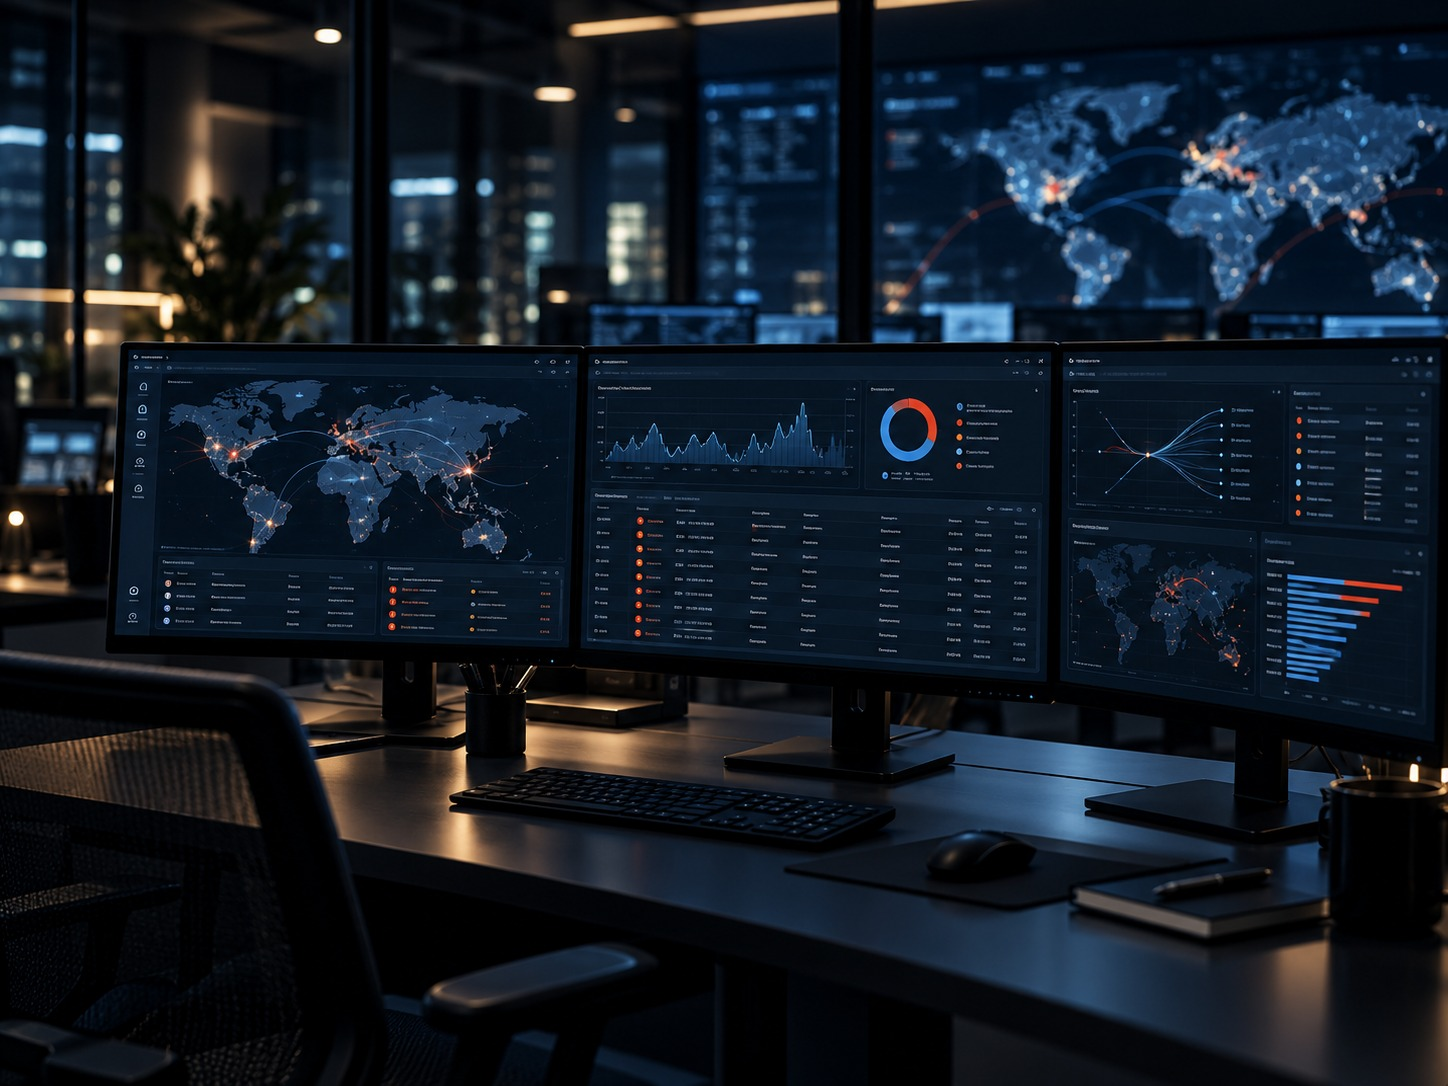
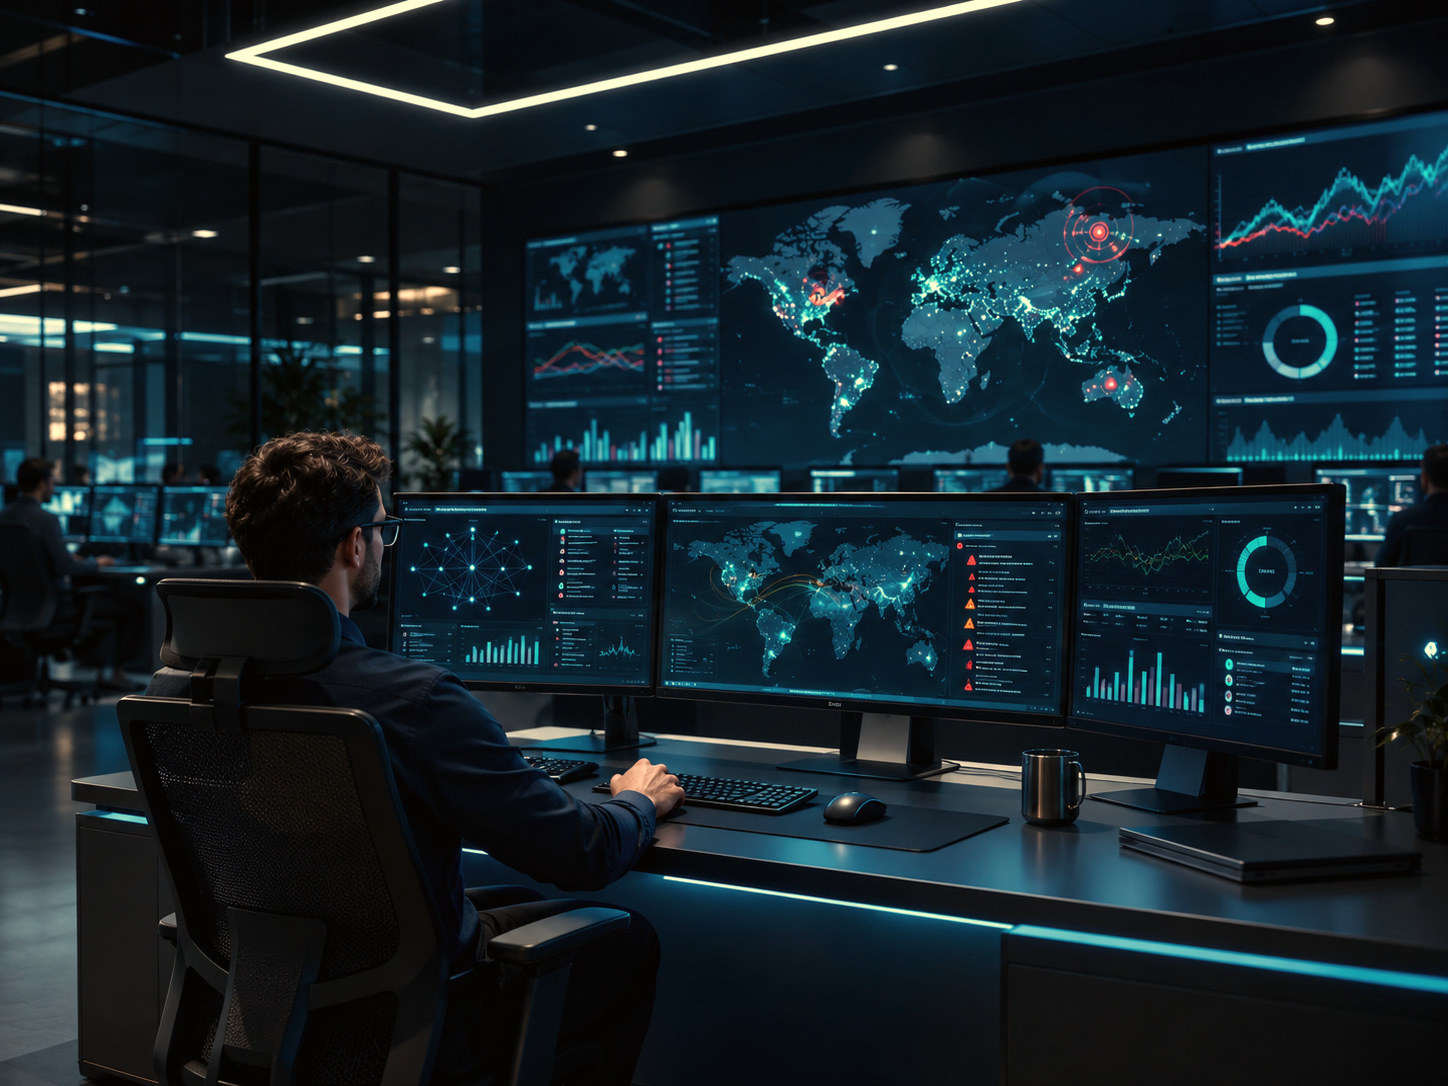
Update Sentry and Compliance visuals; reorder solution sections

diff --git a/site/index.html b/site/index.html
@@ -4,7 +4,7 @@
   <meta charset="UTF-8" />
   <meta name="viewport" content="width=device-width, initial-scale=1" />
   <meta name="theme-color" content="#060d17" />
-  <meta name="description" content="G&R Group entwickelt intelligente Softwarelösungen für Netzwerksicherheit, regulatorische Compliance, KI-Arbeitsplätze und Smart Farming." />
+  <meta name="description" content="G&R Group entwickelt intelligente Softwarelösungen für Netzwerksicherheit, regulatorische Compliance, Smart Farming und KI-Arbeitsplätze." />
   <title>G&R Group | Technologie entwickeln. Zukunft gestalten.</title>
   <link rel="icon" type="image/x-icon" href="https://gr-sec.com/favicon.ico" />
   <link rel="alternate icon" href="favicon.svg" type="image/svg+xml" />
@@ -46,13 +46,13 @@
         <div class="hero-copy">
           <p class="eyebrow"><span class="eyebrow-rule"></span><span data-i18n="heroEyebrow">MADE IN GERMANY</span></p>
           <h1 id="heroTitle" data-i18n="heroTitle">Technologie entwickeln.<br /><span class="title-accent">Zukunft gestalten.</span></h1>
-          <p class="hero-lead" data-i18n="heroLead">Wir entwickeln intelligente Softwarelösungen für sichere Netzwerke, regulatorische Transparenz, produktivere Arbeitsprozesse und datenbasierte Landwirtschaft.</p>
+          <p class="hero-lead" data-i18n="heroLead">Wir entwickeln intelligente Softwarelösungen für sichere Netzwerke, regulatorische Transparenz, datenbasierte Landwirtschaft und produktivere Arbeitsprozesse.</p>
           <div class="hero-actions">
             <a class="button button-primary" href="#products"><span data-i18n="productsCTA">Lösungen entdecken</span><span aria-hidden="true">↗</span></a>
             <a class="button button-ghost" href="#contact"><span data-i18n="contactCTA">Gespräch anfragen</span><span aria-hidden="true">→</span></a>
           </div>
           <div class="hero-meta" aria-label="Lösungsbereiche">
-            <span>G&R SENTRY</span><i></i><span>LEGAL TECH</span><i></i><span>AI WORKSPACE</span><i></i><span>SMART FARMING</span>
+            <span>G&R SENTRY</span><i></i><span>LEGAL TECH</span><i></i><span>SMART FARMING</span><i></i><span>AI WORKSPACE</span>
           </div>
         </div>
       </div>
@@ -66,24 +66,24 @@
             <p class="eyebrow" data-i18n="fieldsKicker">UNSERE LÖSUNGEN</p>
             <h2 id="productsHeading" data-i18n="fieldsTitle">Vier Lösungen.<br /><span class="text-muted">Eine gemeinsame Vision.</span></h2>
           </div>
-          <p class="section-intro" data-i18n="fieldsLead">Vier eigene Softwarelösungen für Netzwerksicherheit, regulatorische Compliance, produktive Arbeitsprozesse und datenbasierte Landwirtschaft.</p>
+          <p class="section-intro" data-i18n="fieldsLead">Vier eigene Softwarelösungen für Netzwerksicherheit, regulatorische Compliance, datenbasierte Landwirtschaft und produktive Arbeitsprozesse.</p>
         </div>
         <div class="product-grid">
           <a href="#cyber" class="product-card">
-            <div class="product-image"><img src="images/cyber.jpg" alt="Sentry Cybersecurity-Motiv" loading="lazy" decoding="async" /></div>
+            <div class="product-image"><img src="images/cyber.jpg" alt="Cybersecurity-Analyst überwacht Netzwerkereignisse im Security Operations Center" loading="lazy" decoding="async" /></div>
             <div class="product-card-body"><span class="product-category">CYBERSECURITY</span><h3>G&R Sentry</h3><p data-i18n="cardCyber">Cyberangriffe erkennen, bevor sie zum Problem werden.</p><span class="product-card-link"><span data-i18n="exploreProduct">Produkt ansehen</span><span aria-hidden="true">↗</span></span></div>
           </a>
           <a href="#compliance" class="product-card">
-            <div class="product-image"><img src="images/compliance.jpg" alt="Drei EU-Flaggen vor moderner Glasarchitektur im Abendlicht" loading="lazy" decoding="async" /></div>
+            <div class="product-image"><img src="images/compliance.jpg" alt="Drei EU-Flaggen vor modernen europäischen Glasgebäuden im Abendlicht" loading="lazy" decoding="async" /></div>
             <div class="product-card-body"><span class="product-category">COMPLIANCE · LEGAL TECH</span><h3>Compliance Tracker</h3><p data-i18n="cardComp">Regulatorische Veränderungen erkennen. Sicherer entscheiden.</p><span class="product-card-link"><span data-i18n="exploreProduct">Produkt ansehen</span><span aria-hidden="true">↗</span></span></div>
-          </a>
-          <a href="#ai" class="product-card">
-            <div class="product-image"><img src="images/ai.jpg" alt="Helios KI-Arbeitsplatz auf einem Laptop vor der Münchner Frauenkirche" loading="lazy" decoding="async" /></div>
-            <div class="product-card-body"><span class="product-category">ARTIFICIAL INTELLIGENCE</span><h3>Helios</h3><p data-i18n="cardAi">Weniger Verwaltung. Mehr Zeit für Ihre Kunden.</p><span class="product-card-link"><span data-i18n="exploreProduct">Produkt ansehen</span><span aria-hidden="true">↗</span></span></div>
           </a>
           <a href="#farming" class="product-card product-card-farming">
             <div class="product-image"><img src="images/vairrigation.jpg" alt="Bewässertes Feld mit Vairrigation-Dashboard auf einem Tablet – illustrative Produktvisualisierung" loading="lazy" decoding="async" width="922" height="770" /></div>
             <div class="product-card-body"><span class="product-category">SMART FARMING</span><h3>Vairrigation</h3><p data-i18n="cardFarm">More crop per drop. Bewässerung datenbasiert planen.</p><span class="product-card-link"><span data-i18n="exploreProduct">Produkt ansehen</span><span aria-hidden="true">↗</span></span></div>
+          </a>
+          <a href="#ai" class="product-card">
+            <div class="product-image"><img src="images/ai.jpg" alt="Helios KI-Arbeitsplatz auf einem Laptop vor der Münchner Frauenkirche" loading="lazy" decoding="async" /></div>
+            <div class="product-card-body"><span class="product-category">ARTIFICIAL INTELLIGENCE</span><h3>Helios</h3><p data-i18n="cardAi">Weniger Verwaltung. Mehr Zeit für Ihre Kunden.</p><span class="product-card-link"><span data-i18n="exploreProduct">Produkt ansehen</span><span aria-hidden="true">↗</span></span></div>
           </a>
         </div>
       </div>
@@ -91,7 +91,7 @@
 
     <div class="product-details">
       <section class="wrap detail-row" id="cyber" aria-labelledby="cyberHeading">
-        <div class="detail-media"><img src="images/cyber.jpg" alt="G&R Sentry – bestehendes Cybersecurity-Bild" loading="lazy" decoding="async" /></div>
+        <div class="detail-media"><img src="images/cyber.jpg" alt="G&R Sentry – Cybersecurity-Analyst an Netzwerkmonitoren" loading="lazy" decoding="async" /></div>
         <div class="detail-content">
           <p class="eyebrow">CYBERSECURITY</p>
           <h2 id="cyberHeading">G&R Sentry</h2>
@@ -120,22 +120,7 @@
           <a href="#contact" class="text-link detail-cta" data-contact-topic="Compliance Tracker"><span data-i18n="compDetailCTA">Compliance Tracker kennenlernen</span><span aria-hidden="true">↗</span></a>
         </div>
       </section>
-      <section class="wrap detail-row" id="ai" aria-labelledby="aiHeading">
-        <div class="detail-media"><img src="images/ai.jpg" alt="Helios – KI-Arbeitsplatz auf einem Laptop mit Blick auf die Münchner Frauenkirche" loading="lazy" decoding="async" /></div>
-        <div class="detail-content">
-          <p class="eyebrow">ARTIFICIAL INTELLIGENCE · WORKSPACE</p>
-          <h2 id="aiHeading">Helios</h2>
-          <h3 class="detail-tagline" data-i18n="aiTagline">Weniger Verwaltung. Mehr Zeit für Ihre Kunden.</h3>
-          <p class="detail-lead" data-i18n="aiLead">Helios verbindet Posteingang, Kalender und Arbeitsvorgänge in einem intelligenten KI-Arbeitsplatz. Die Software erkennt wichtige Informationen, priorisiert Aufgaben und unterstützt Makler dabei, ihren Arbeitsalltag effizienter zu organisieren.</p>
-          <div class="feature-list">
-            <div class="feature"><span class="feature-index">01</span><div><strong data-i18n="ai1t">Priorisiert, was wichtig ist</strong><p data-i18n="ai1d">Erkennt, was heute Aufmerksamkeit braucht.</p></div></div>
-            <div class="feature"><span class="feature-index">02</span><div><strong data-i18n="ai2t">Denkt an nächste Schritte</strong><p data-i18n="ai2d">Identifiziert Fristen, Aufgaben und relevante Vorgänge.</p></div></div>
-            <div class="feature"><span class="feature-index">03</span><div><strong data-i18n="ai3t">Reduziert Routinearbeit</strong><p data-i18n="ai3d">Schafft Freiraum für produktivere Kunden- und Facharbeit.</p></div></div>
-          </div>
-          <a href="#contact" class="text-link detail-cta" data-contact-topic="Helios"><span data-i18n="heliosDetailCTA">Helios kennenlernen</span><span aria-hidden="true">↗</span></a>
-        </div>
-      </section>
-      <section class="wrap detail-row detail-reverse" id="farming" aria-labelledby="farmingHeading">
+      <section class="wrap detail-row" id="farming" aria-labelledby="farmingHeading">
         <div class="detail-media">
           <img src="images/vairrigation.jpg" alt="Vairrigation – Feldübersicht auf einem Tablet vor bewässerter Landwirtschaftsfläche" loading="lazy" decoding="async" width="922" height="770" />
           <p class="illustration-note" data-i18n="farmIllustration">KI-generierte Produktvisualisierung. Angezeigte Dashboard-Werte sind Beispieldaten.</p>
@@ -153,6 +138,21 @@
           <a href="#contact" class="text-link detail-cta" data-contact-topic="Vairrigation"><span data-i18n="farmDetailCTA">Vairrigation kennenlernen</span><span aria-hidden="true">↗</span></a>
         </div>
       </section>
+      <section class="wrap detail-row detail-reverse" id="ai" aria-labelledby="aiHeading">
+        <div class="detail-media"><img src="images/ai.jpg" alt="Helios – KI-Arbeitsplatz auf einem Laptop mit Blick auf die Münchner Frauenkirche" loading="lazy" decoding="async" /></div>
+        <div class="detail-content">
+          <p class="eyebrow">ARTIFICIAL INTELLIGENCE · WORKSPACE</p>
+          <h2 id="aiHeading">Helios</h2>
+          <h3 class="detail-tagline" data-i18n="aiTagline">Weniger Verwaltung. Mehr Zeit für Ihre Kunden.</h3>
+          <p class="detail-lead" data-i18n="aiLead">Helios verbindet Posteingang, Kalender und Arbeitsvorgänge in einem intelligenten KI-Arbeitsplatz. Die Software erkennt wichtige Informationen, priorisiert Aufgaben und unterstützt Makler dabei, ihren Arbeitsalltag effizienter zu organisieren.</p>
+          <div class="feature-list">
+            <div class="feature"><span class="feature-index">01</span><div><strong data-i18n="ai1t">Priorisiert, was wichtig ist</strong><p data-i18n="ai1d">Erkennt, was heute Aufmerksamkeit braucht.</p></div></div>
+            <div class="feature"><span class="feature-index">02</span><div><strong data-i18n="ai2t">Denkt an nächste Schritte</strong><p data-i18n="ai2d">Identifiziert Fristen, Aufgaben und relevante Vorgänge.</p></div></div>
+            <div class="feature"><span class="feature-index">03</span><div><strong data-i18n="ai3t">Reduziert Routinearbeit</strong><p data-i18n="ai3d">Schafft Freiraum für produktivere Kunden- und Facharbeit.</p></div></div>
+          </div>
+          <a href="#contact" class="text-link detail-cta" data-contact-topic="Helios"><span data-i18n="heliosDetailCTA">Helios kennenlernen</span><span aria-hidden="true">↗</span></a>
+        </div>
+      </section>
     </div>
 
     <section class="about-section" id="about" aria-labelledby="aboutHeading">
@@ -161,7 +161,7 @@
           <p class="eyebrow" data-i18n="aboutKicker">ÜBER G&R GROUP</p>
           <h2 id="aboutHeading" data-i18n="aboutTitle">Technologie für reale<br /><span class="text-muted">Herausforderungen.</span></h2>
         </div>
-        <div class="about-copy"><p data-i18n="aboutText">G&R Group entwickelt Softwarelösungen für Netzwerksicherheit, regulatorische Compliance, KI-gestützte Arbeitsprozesse und intelligente Landwirtschaft. Wir helfen Unternehmen, Risiken frühzeitig zu erkennen, neue Anforderungen einzuordnen, Abläufe zu vereinfachen und Ressourcen gezielter einzusetzen.</p><a href="#contact" class="text-link"><span data-i18n="aboutCTA">Lernen Sie uns kennen</span><span aria-hidden="true">↗</span></a></div>
+        <div class="about-copy"><p data-i18n="aboutText">G&R Group entwickelt Softwarelösungen für Netzwerksicherheit, regulatorische Compliance, intelligente Landwirtschaft und KI-gestützte Arbeitsprozesse. Wir helfen Unternehmen, Risiken frühzeitig zu erkennen, neue Anforderungen einzuordnen, Abläufe zu vereinfachen und Ressourcen gezielter einzusetzen.</p><a href="#contact" class="text-link"><span data-i18n="aboutCTA">Lernen Sie uns kennen</span><span aria-hidden="true">↗</span></a></div>
       </div>
     </section>
 
@@ -182,7 +182,7 @@
         <div class="contact-copy">
           <p class="eyebrow" data-i18n="contactKicker">KONTAKT</p>
           <h2 id="contactHeading" data-i18n="contactTitle">Lassen Sie uns über Ihre Herausforderung sprechen.</h2>
-          <p data-i18n="contactLead">Ob Sentry, Compliance Tracker, Helios oder Vairrigation – wir sprechen mit Ihnen über passende Lösungen und konkrete nächste Schritte.</p>
+          <p data-i18n="contactLead">Ob Sentry, Compliance Tracker, Vairrigation oder Helios – wir sprechen mit Ihnen über passende Lösungen und konkrete nächste Schritte.</p>
           <a class="contact-mail" href="mailto:office@gr-sec.com">office@gr-sec.com <span aria-hidden="true">↗</span></a>
         </div>
         <div class="contact-form-wrap">
@@ -193,7 +193,7 @@
               <label><span data-i18n="labelCompany">Unternehmen</span><input name="company" autocomplete="organization" data-i18n-placeholder="phCompany" placeholder="Unternehmen" /></label>
             </div>
             <label><span data-i18n="labelEmail">Geschäftliche E-Mail</span><input type="email" name="email" autocomplete="email" required data-i18n-placeholder="phEmail" placeholder="name@unternehmen.de" /></label>
-            <label><span data-i18n="labelTopic">Interessensgebiet</span><select name="topic"><option value="G&R Sentry">G&R Sentry / Cybersecurity</option><option value="Compliance Tracker">Compliance Tracker / Legal Tech</option><option value="Helios">Helios / KI Workspace</option><option value="Vairrigation" data-i18n="farmFormOption">Vairrigation / Smart Farming</option><option value="Allgemeine Anfrage" data-i18n="generalTopic">Allgemeine Anfrage</option></select></label>
+            <label><span data-i18n="labelTopic">Interessensgebiet</span><select name="topic"><option value="G&R Sentry">G&R Sentry / Cybersecurity</option><option value="Compliance Tracker">Compliance Tracker / Legal Tech</option><option value="Vairrigation" data-i18n="farmFormOption">Vairrigation / Smart Farming</option><option value="Helios">Helios / KI Workspace</option><option value="Allgemeine Anfrage" data-i18n="generalTopic">Allgemeine Anfrage</option></select></label>
             <label><span data-i18n="labelMessage">Ihre Nachricht (optional)</span><textarea name="msg" rows="3" data-i18n-placeholder="phMessage" placeholder="Worum geht es?"></textarea></label>
             <button class="button button-primary form-submit" type="submit"><span data-i18n="submit">E-Mail-Anfrage vorbereiten</span><span aria-hidden="true">↗</span></button>
             <p class="form-note" id="formNote" role="status" aria-live="polite" data-i18n="formNote">Beim Absenden öffnet sich Ihr E-Mail-Programm. Es werden keine Daten über dieses Formular an einen Server übertragen.</p>

diff --git a/site/app.js b/site/app.js
@@ -3,16 +3,16 @@ const copy = {
   de: {
     htmlLang: 'de',
     pageTitle: 'G&R Group | Technologie entwickeln. Zukunft gestalten.',
-    pageDescription: 'G&R Group entwickelt eigene Softwarelösungen für Netzwerksicherheit, regulatorische Compliance, KI-Arbeitsplätze und Smart Farming.',
+    pageDescription: 'G&R Group entwickelt eigene Softwarelösungen für Netzwerksicherheit, regulatorische Compliance, Smart Farming und KI-Arbeitsplätze.',
     skip: 'Zum Inhalt springen',
     navProducts: 'Lösungen', navAbout: 'Unternehmen', navContact: 'Kontakt',
     heroEyebrow: 'MADE IN GERMANY',
     heroTitle: 'Technologie entwickeln.<br /><span class="title-accent">Zukunft gestalten.</span>',
-    heroLead: 'Wir entwickeln intelligente Softwarelösungen für sichere Netzwerke, regulatorische Transparenz, produktivere Arbeitsprozesse und datenbasierte Landwirtschaft.',
+    heroLead: 'Wir entwickeln intelligente Softwarelösungen für sichere Netzwerke, regulatorische Transparenz, datenbasierte Landwirtschaft und produktivere Arbeitsprozesse.',
     productsCTA: 'Lösungen entdecken', contactCTA: 'Gespräch anfragen',
     fieldsKicker: 'UNSERE LÖSUNGEN',
     fieldsTitle: 'Vier Lösungen.<br /><span class="text-muted">Eine gemeinsame Vision.</span>',
-    fieldsLead: 'Vier eigene Softwarelösungen für Netzwerksicherheit, regulatorische Compliance, produktive Arbeitsprozesse und datenbasierte Landwirtschaft.',
+    fieldsLead: 'Vier eigene Softwarelösungen für Netzwerksicherheit, regulatorische Compliance, datenbasierte Landwirtschaft und produktive Arbeitsprozesse.',
     cardCyber: 'Cyberangriffe erkennen, bevor sie zum Problem werden.',
     cardComp: 'Regulatorische Veränderungen erkennen. Sicherer entscheiden.',
     cardAi: 'Weniger Verwaltung. Mehr Zeit für Ihre Kunden.',
@@ -44,7 +44,7 @@ const copy = {
     ai3t: 'Reduziert Routinearbeit', ai3d: 'Schafft Freiraum für produktivere Kunden- und Facharbeit.',
     aboutKicker: 'ÜBER G&R GROUP',
     aboutTitle: 'Technologie für reale<br /><span class="text-muted">Herausforderungen.</span>',
-    aboutText: 'G&R Group entwickelt Softwarelösungen für Netzwerksicherheit, regulatorische Compliance, KI-gestützte Arbeitsprozesse und intelligente Landwirtschaft. Wir helfen Unternehmen, Risiken frühzeitig zu erkennen, neue Anforderungen einzuordnen, Abläufe zu vereinfachen und Ressourcen gezielter einzusetzen.',
+    aboutText: 'G&R Group entwickelt Softwarelösungen für Netzwerksicherheit, regulatorische Compliance, intelligente Landwirtschaft und KI-gestützte Arbeitsprozesse. Wir helfen Unternehmen, Risiken frühzeitig zu erkennen, neue Anforderungen einzuordnen, Abläufe zu vereinfachen und Ressourcen gezielter einzusetzen.',
     aboutCTA: 'Lernen Sie uns kennen',
     trustKicker: 'UNSER ANSPRUCH', trustTitle: 'Vertrauen entsteht durch Klarheit.',
     trust1t: 'Made in Germany', trust1d: 'Technologieentwicklung mit Fokus auf Qualität, Verlässlichkeit und praktische Anwendbarkeit.',
@@ -52,7 +52,7 @@ const copy = {
     trust3t: 'Praxisnah entwickelt', trust3d: 'Konkrete Herausforderungen und verständliche Funktionen stehen im Mittelpunkt.',
     trust4t: 'KI mit klarem Zweck', trust4d: 'Künstliche Intelligenz dort einsetzen, wo sie Transparenz, Entscheidungen und Effizienz verbessert.',
     contactKicker: 'KONTAKT', contactTitle: 'Lassen Sie uns über Ihre Herausforderung sprechen.',
-    contactLead: 'Ob Sentry, Compliance Tracker, Helios oder Vairrigation – wir sprechen mit Ihnen über passende Lösungen und konkrete nächste Schritte.',
+    contactLead: 'Ob Sentry, Compliance Tracker, Vairrigation oder Helios – wir sprechen mit Ihnen über passende Lösungen und konkrete nächste Schritte.',
     formTitle: 'Gespräch anfragen', labelName: 'Ihr Name', labelCompany: 'Unternehmen', labelEmail: 'Geschäftliche E-Mail',
     labelTopic: 'Interessensgebiet', labelMessage: 'Ihre Nachricht (optional)', generalTopic: 'Allgemeine Anfrage',
     phName: 'Name', phCompany: 'Unternehmen', phEmail: 'name@unternehmen.de', phMessage: 'Worum geht es?',
@@ -65,16 +65,16 @@ const copy = {
   en: {
     htmlLang: 'en',
     pageTitle: 'G&R Group | Developing technology. Shaping the future.',
-    pageDescription: 'G&R Group develops proprietary software solutions for network security, regulatory compliance, AI workspaces and smart farming.',
+    pageDescription: 'G&R Group develops proprietary software solutions for network security, regulatory compliance, smart farming and AI workspaces.',
     skip: 'Skip to content',
     navProducts: 'Solutions', navAbout: 'Company', navContact: 'Contact',
     heroEyebrow: 'MADE IN GERMANY',
     heroTitle: 'Developing technology.<br /><span class="title-accent">Shaping the future.</span>',
-    heroLead: 'We develop intelligent software solutions for secure networks, regulatory clarity, productive workflows and data-driven agriculture.',
+    heroLead: 'We develop intelligent software solutions for secure networks, regulatory clarity, data-driven agriculture and productive workflows.',
     productsCTA: 'Explore our solutions', contactCTA: 'Request a conversation',
     fieldsKicker: 'OUR SOLUTIONS',
     fieldsTitle: 'Four solutions.<br /><span class="text-muted">One shared vision.</span>',
-    fieldsLead: 'Four proprietary software solutions for network security, regulatory compliance, productive workflows and data-driven agriculture.',
+    fieldsLead: 'Four proprietary software solutions for network security, regulatory compliance, data-driven agriculture and productive workflows.',
     cardCyber: 'Detect cyberattacks before they become a problem.',
     cardComp: 'Spot regulatory changes. Make more informed decisions.',
     cardAi: 'Less administration. More time for your clients.',
@@ -114,7 +114,7 @@ const copy = {
     trust3t: 'Built for real use', trust3d: 'Specific challenges and understandable features are at the heart of our work.',
     trust4t: 'Purposeful AI', trust4d: 'Using artificial intelligence where it improves transparency, decision-making and efficiency.',
     contactKicker: 'CONTACT', contactTitle: 'Let’s talk about your challenge.',
-    contactLead: 'Whether you are interested in Sentry, Compliance Tracker, Helios or Vairrigation, we can discuss solutions and practical next steps.',
+    contactLead: 'Whether you are interested in Sentry, Compliance Tracker, Vairrigation or Helios, we can discuss solutions and practical next steps.',
     formTitle: 'Request a conversation', labelName: 'Your name', labelCompany: 'Company', labelEmail: 'Business email',
     labelTopic: 'Area of interest', labelMessage: 'Your message (optional)', generalTopic: 'General inquiry',
     phName: 'Name', phCompany: 'Company', phEmail: 'name@company.com', phMessage: 'What would you like to discuss?',
